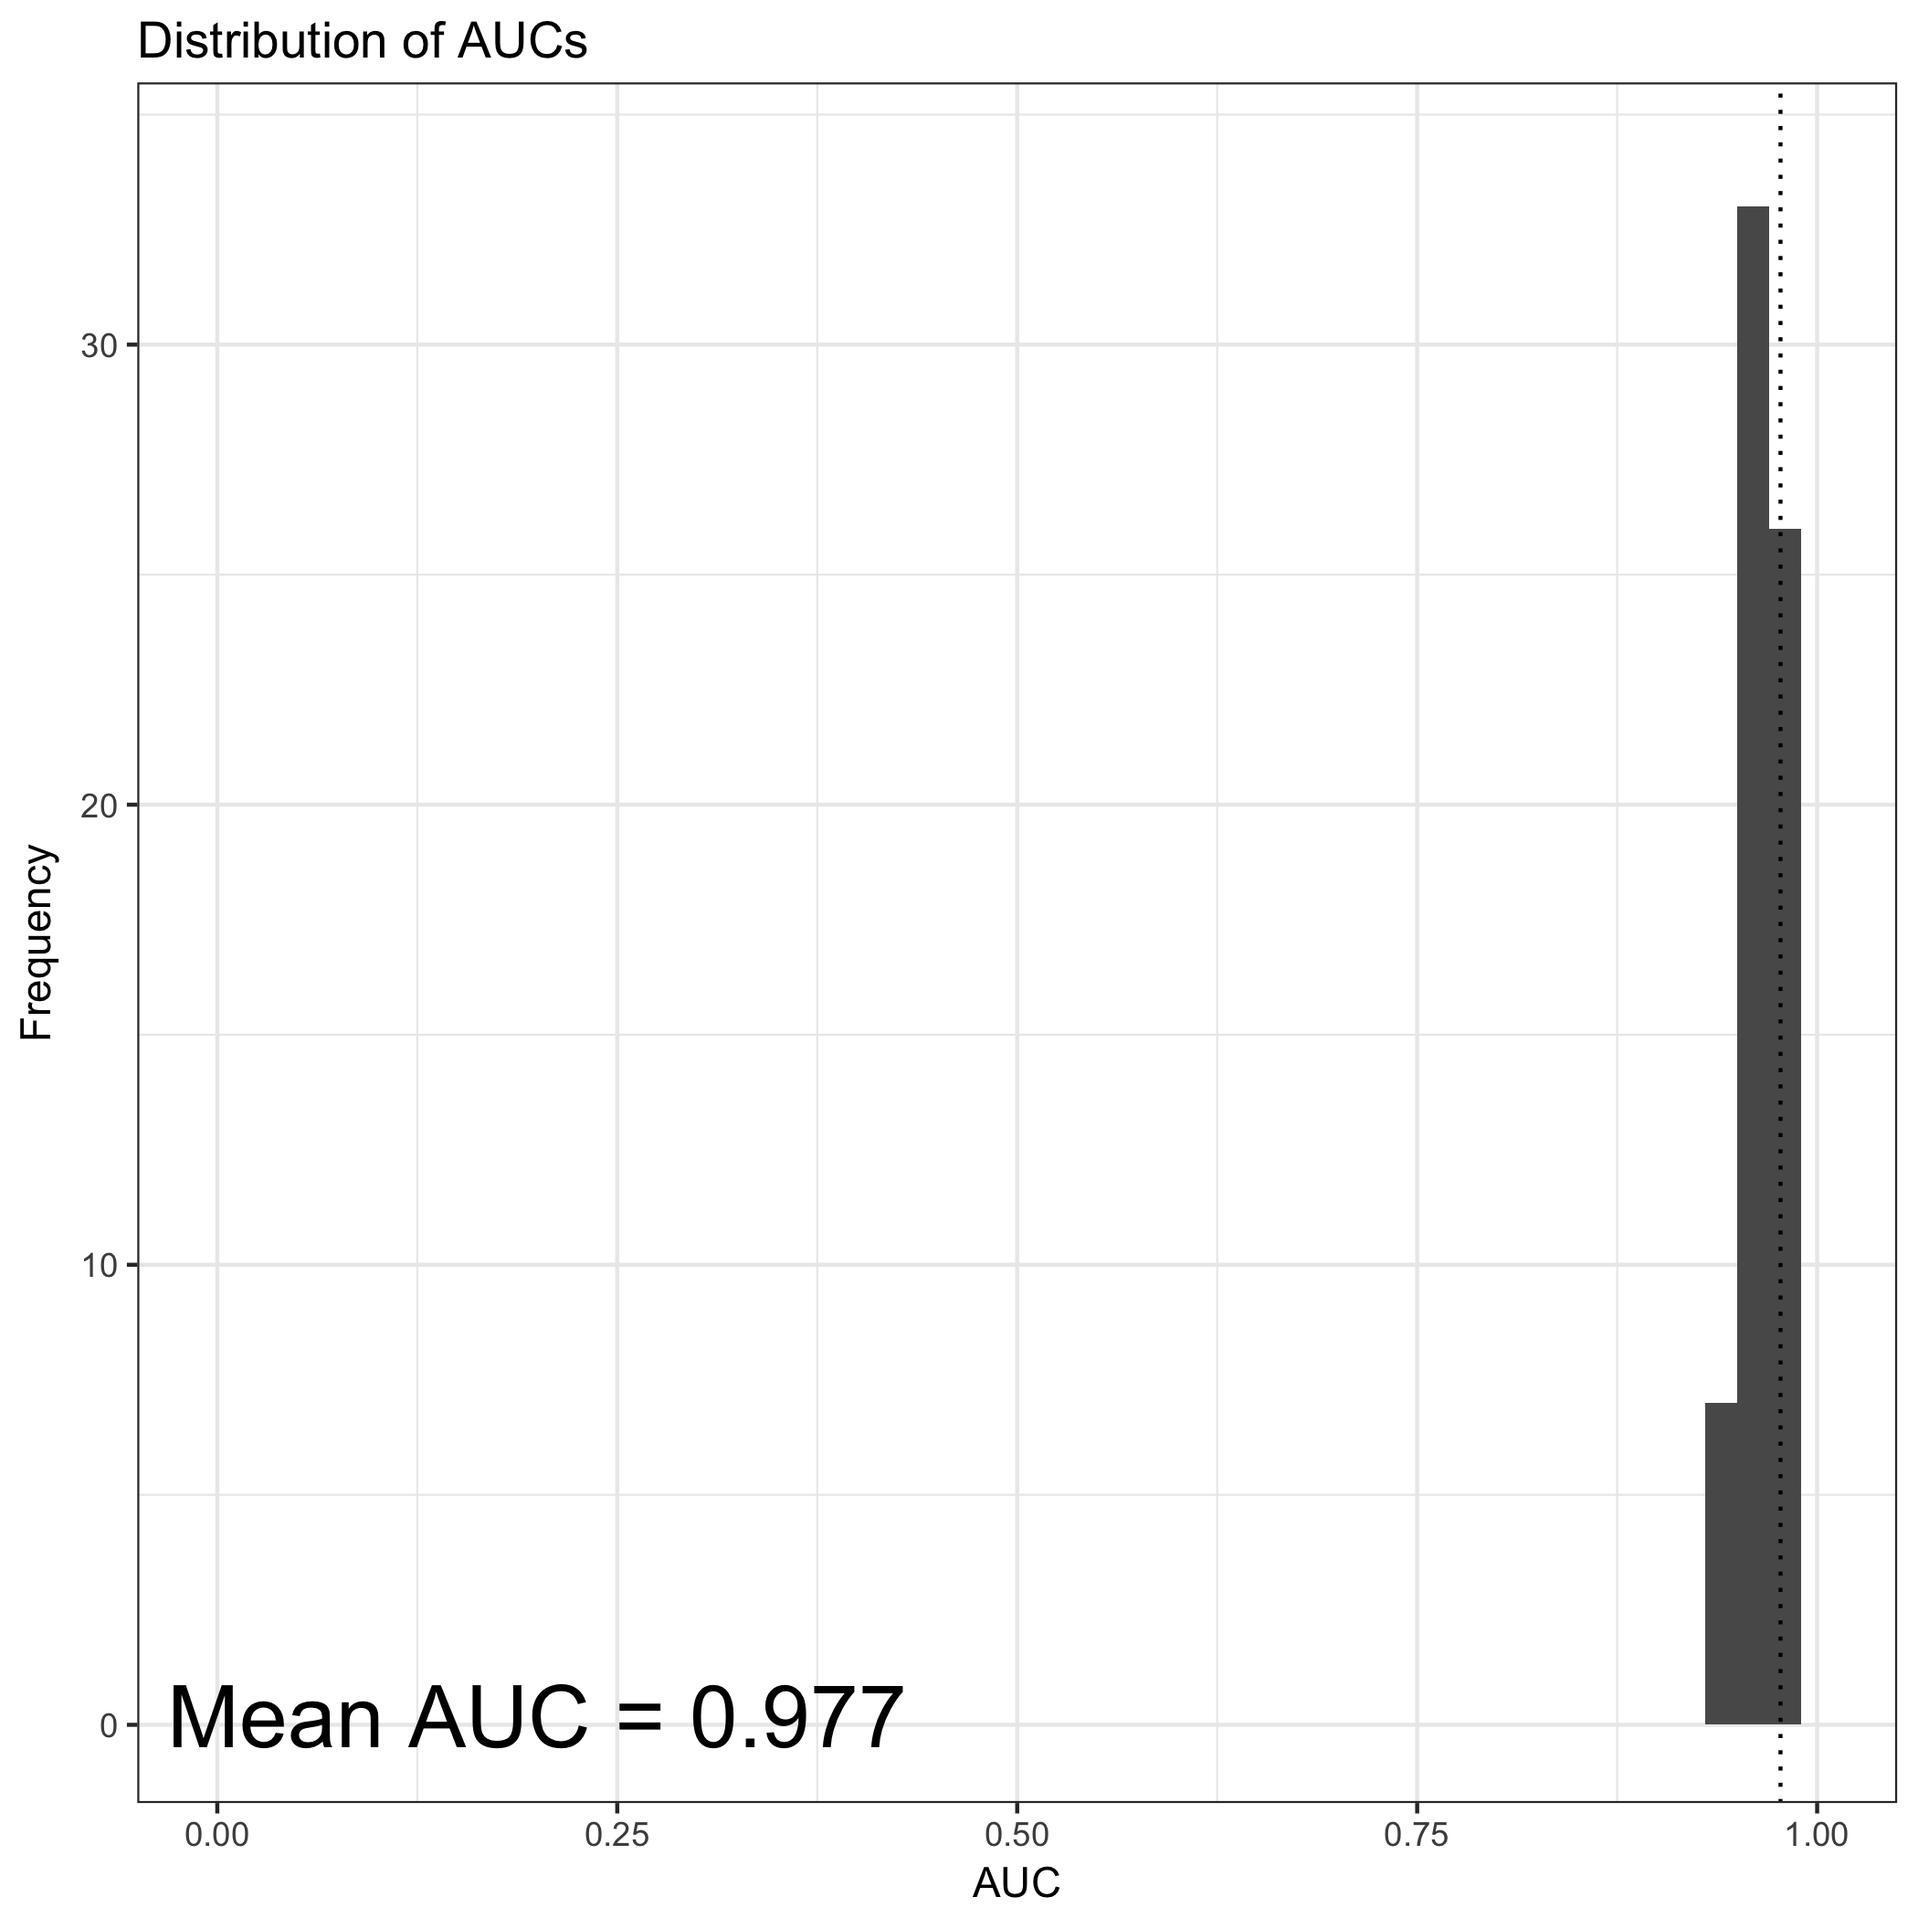
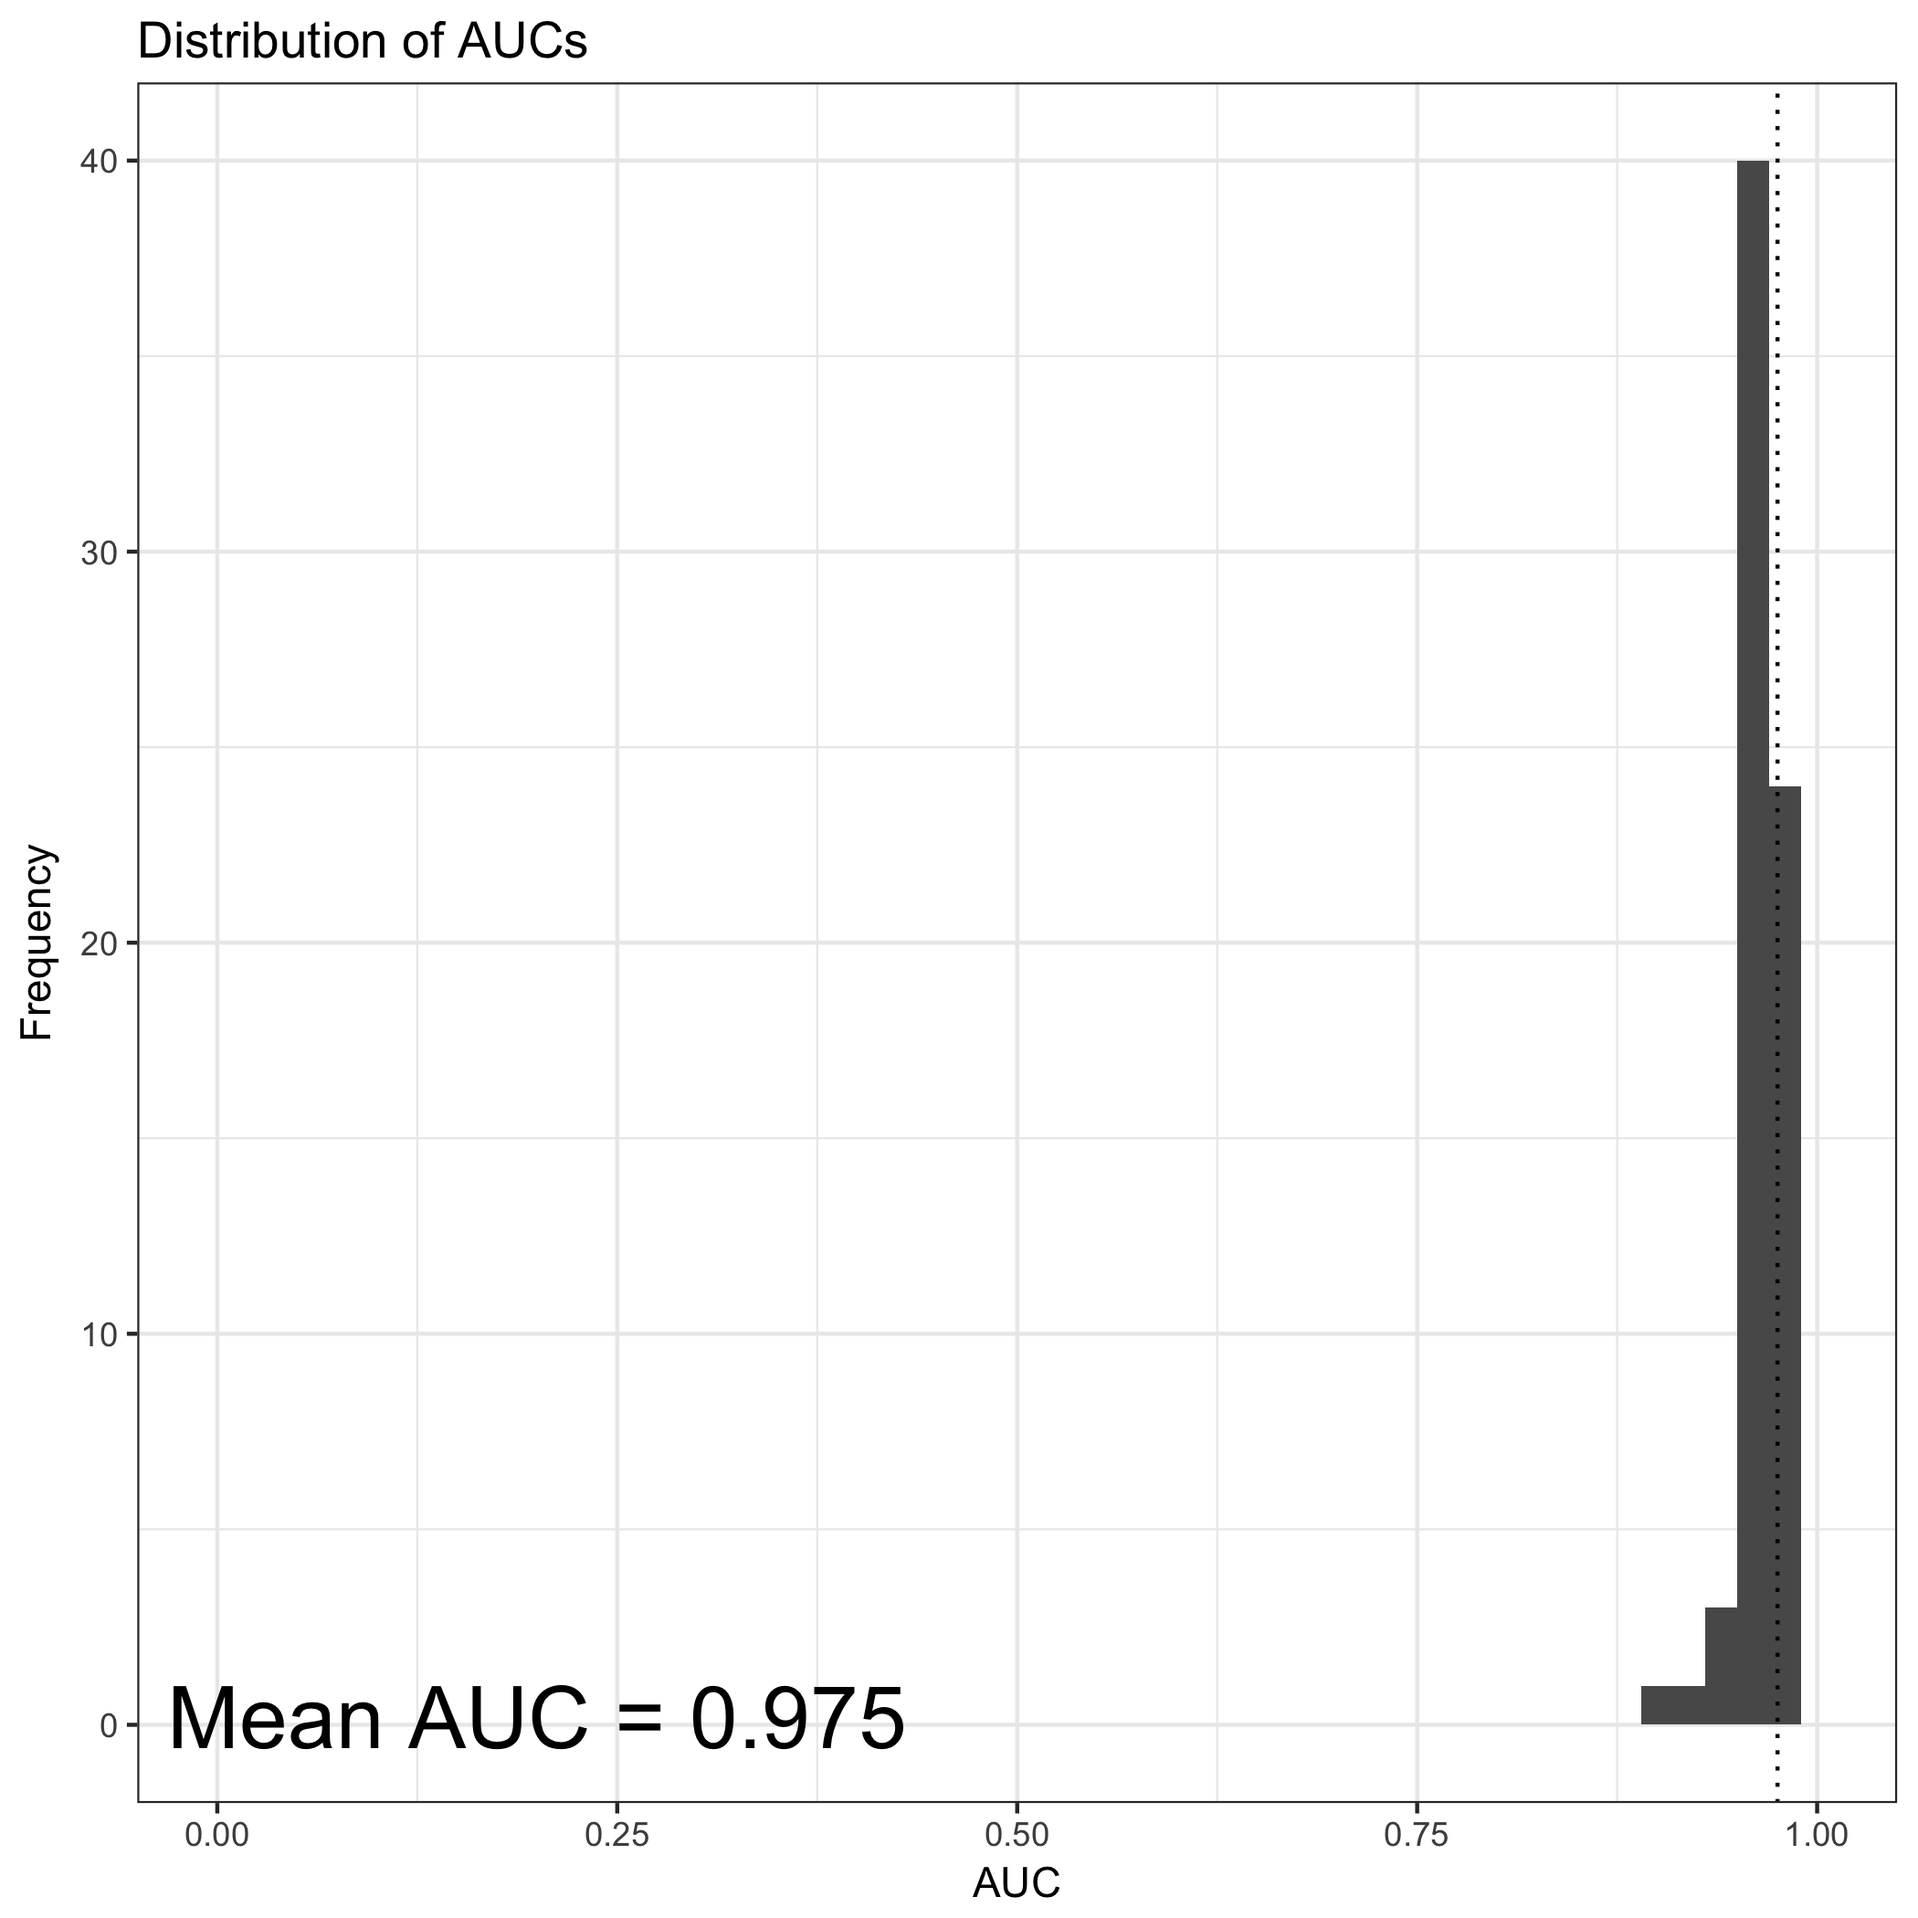
fixed some typos and updated some examples

diff --git a/Python/easyml/bootstrap.py b/Python/easyml/bootstrap.py
@@ -56,7 +56,7 @@ def bootstrap_coefficients(estimator, fit, extract_coefficients, X, y,
 
         # Loop over number of iterations
         indexes = range(n_samples)
-        with concurrent.futures.ThreadPoolExecutor(max_workers=n_core) as executor:
+        with concurrent.futures.ProcessPoolExecutor(max_workers=n_core) as executor:
             futures = {executor.submit(bootstrap_coefficient, estimator, fit, extract_coefficients, X, y): ix for ix in indexes}
             for future in concurrent.futures.as_completed(futures):
                 try:
@@ -127,7 +127,7 @@ def bootstrap_predictions(estimator, fit_model, predict_model, X_train, y_train,
 
         # Loop over number of iterations
         indexes = range(n_samples)
-        with concurrent.futures.ThreadPoolExecutor(max_workers=n_core) as executor:
+        with concurrent.futures.ProcessPoolExecutor(max_workers=n_core) as executor:
             futures = {executor.submit(bootstrap_prediction, estimator, fit_model, predict_model, X_train, y_train, X_test): ix for ix in indexes}
             for future in concurrent.futures.as_completed(futures):
                 try:
@@ -246,7 +246,7 @@ def bootstrap_metrics(estimator, sample, fit_model, predict_model, measure, X, y
 
         # Loop over number of iterations
         indexes = range(n_divisions)
-        with concurrent.futures.ThreadPoolExecutor(max_workers=n_core) as executor:
+        with concurrent.futures.ProcessPoolExecutor(max_workers=n_core) as executor:
             futures = {executor.submit(bootstrap_metric, estimator, sample, fit_model, predict_model, measure, X, y, n_iterations): ix for ix in indexes}
             for future in concurrent.futures.as_completed(futures):
                 try:

diff --git a/Python/examples/cocaine_dependence/glmnet/glmnet.py b/Python/examples/cocaine_dependence/glmnet/glmnet.py
@@ -12,17 +12,17 @@ os.chdir('./Python/examples/cocaine_dependence/glmnet')
 
 if __name__ == "__main__":
     # Load data
-    cocaine_depedence = pd.read_table('./cocaine_depedence.txt')
+    cocaine_dependence = pd.read_table('./cocaine_dependence.txt')
 
     # Analyze data
-    easy_glmnet(cocaine_depedence, 'DIAGNOSIS',
+    easy_glmnet(cocaine_dependence, 'DIAGNOSIS',
                 family='binomial', exclude_variables=['subject'], categorical_variables=['Male'],
                 random_state=1, progress_bar=True, n_core=1,
                 n_samples=100, n_divisions=10, n_iterations=5,
                 alpha=1, n_lambda=200, standardize=False, cut_point=0, max_iter=1e6)
 
     # Analyze data
-    easy_glmnet(cocaine_depedence, 'DIAGNOSIS',
+    easy_glmnet(cocaine_dependence, 'DIAGNOSIS',
                 family='binomial', exclude_variables=['subject'], categorical_variables=['Male'],
                 random_state=1, progress_bar=True, n_core=os.cpu_count(),
                 n_samples=100, n_divisions=10, n_iterations=5,

diff --git a/Python/examples/cocaine_dependence/random_forest/random_forest.py b/Python/examples/cocaine_dependence/random_forest/random_forest.py
@@ -12,16 +12,16 @@ os.chdir('./Python/examples/cocaine_dependence/random_forest')
 
 if __name__ == "__main__":
     # Load data
-    cocaine_depedence = pd.read_table('./cocaine_depedence.txt')
+    cocaine_dependence = pd.read_table('./cocaine_dependence.txt')
 
     # Analyze data
-    easy_random_forest(cocaine_depedence, 'DIAGNOSIS',
+    easy_random_forest(cocaine_dependence, 'DIAGNOSIS',
                        family='binomial', exclude_variables=['subject'], categorical_variables=['Male'],
                        random_state=1, progress_bar=True, n_core=1,
                        n_samples=100, n_divisions=10, n_iterations=5)
 
     # Analyze data
-    easy_random_forest(cocaine_depedence, 'DIAGNOSIS',
+    easy_random_forest(cocaine_dependence, 'DIAGNOSIS',
                        family='binomial', exclude_variables=['subject'], categorical_variables=['Male'],
                        random_state=1, progress_bar=True, n_core=os.cpu_count(),
                        n_samples=100, n_divisions=10, n_iterations=5)
